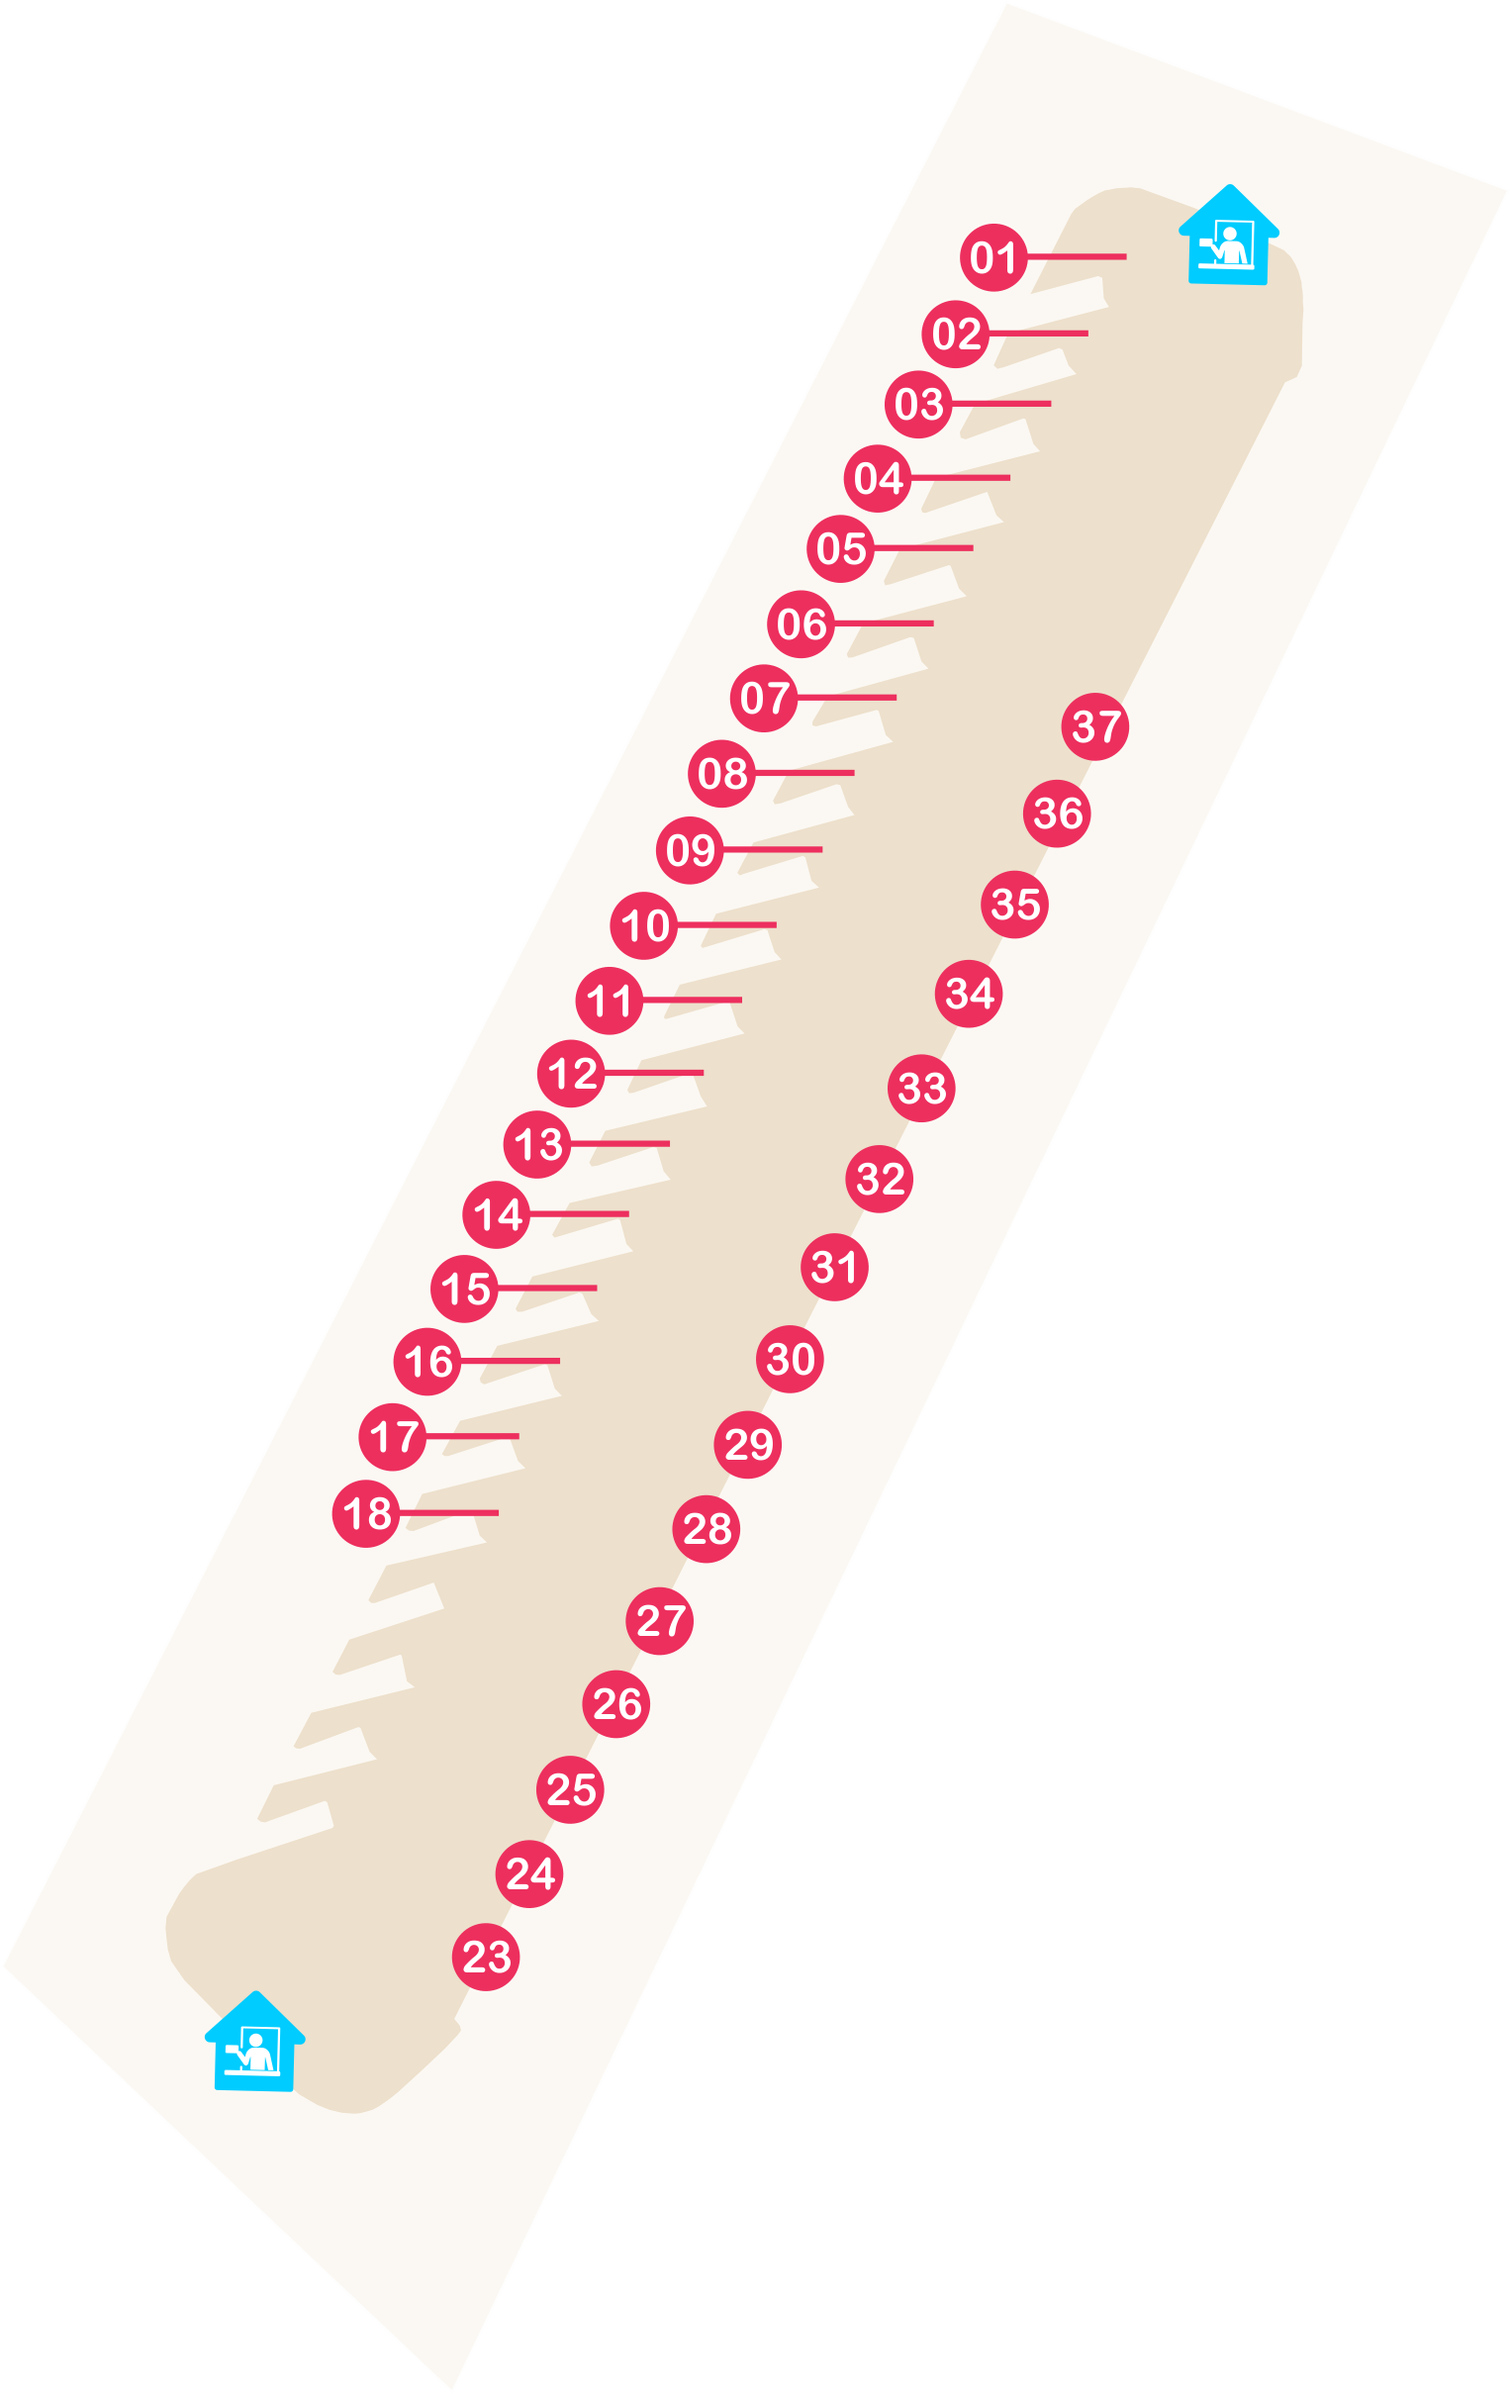
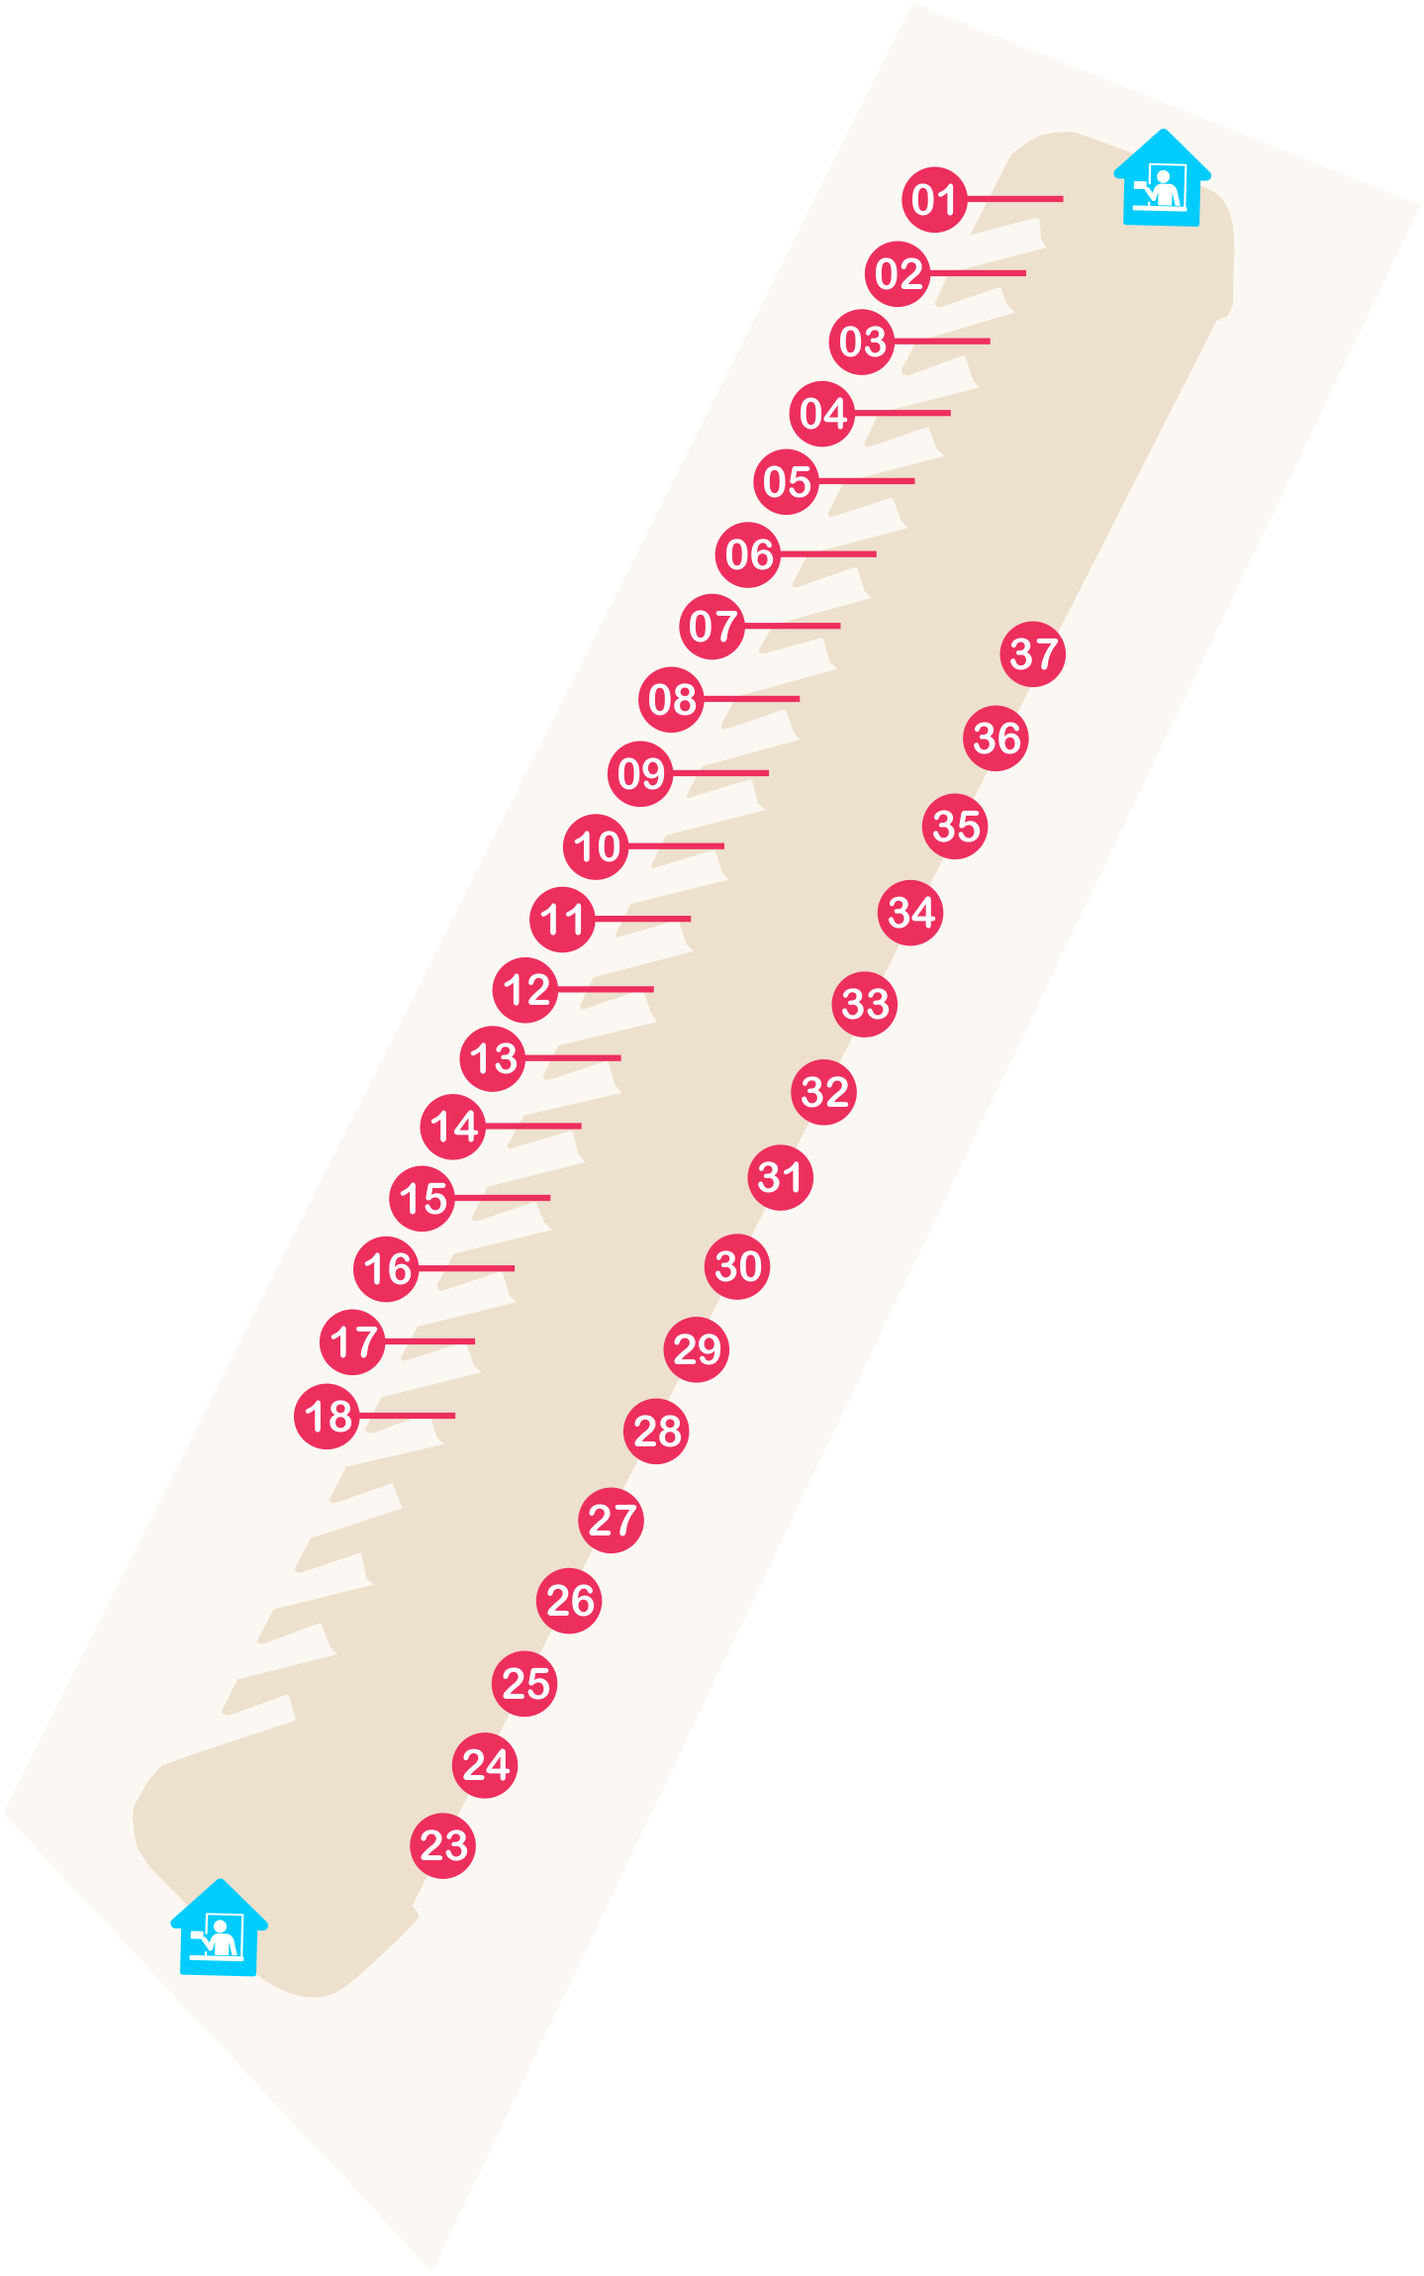
atualiza

diff --git a/terminais_transcol/index.html b/terminais_transcol/index.html
@@ -89,7 +89,7 @@
         titulo.addTo(map)
 
         var urltip = 'https://github.com/rafaeldgeo/mapzone/blob/main/terminais_transcol/tip.png?raw=true'
-        var imgb = [[-20.389319,-40.319768],[-20.392692,-40.322038]]
+        var imgb = [[-20.390481,-40.320538],[-20.391907,-40.321576]]
         L.imageOverlay(urltip,imgb).addTo(map)
 
         
